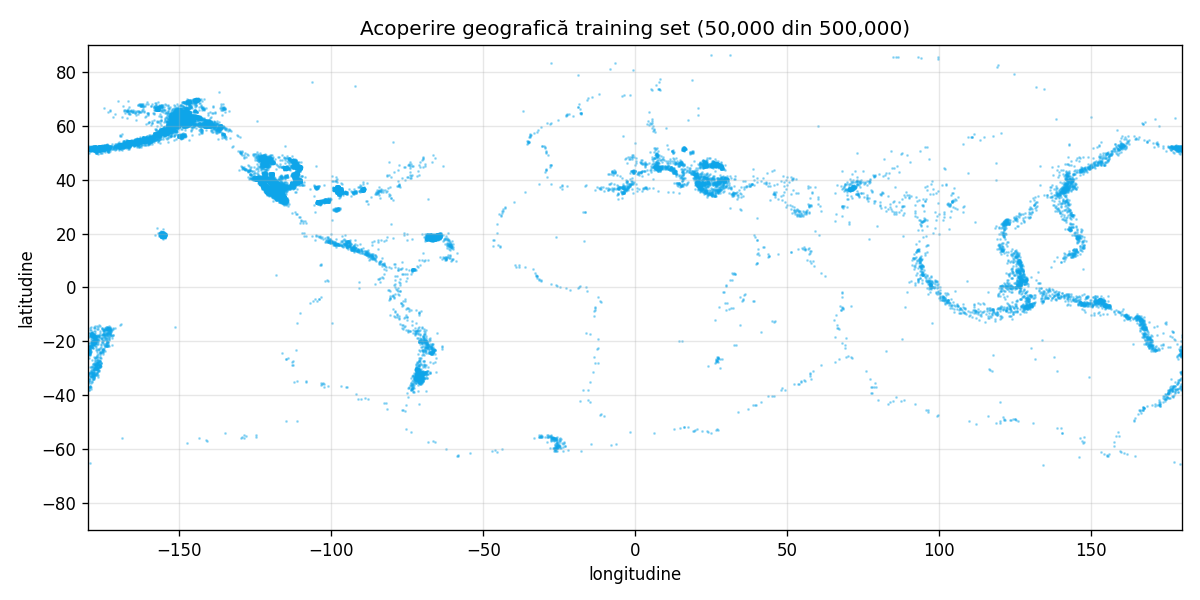
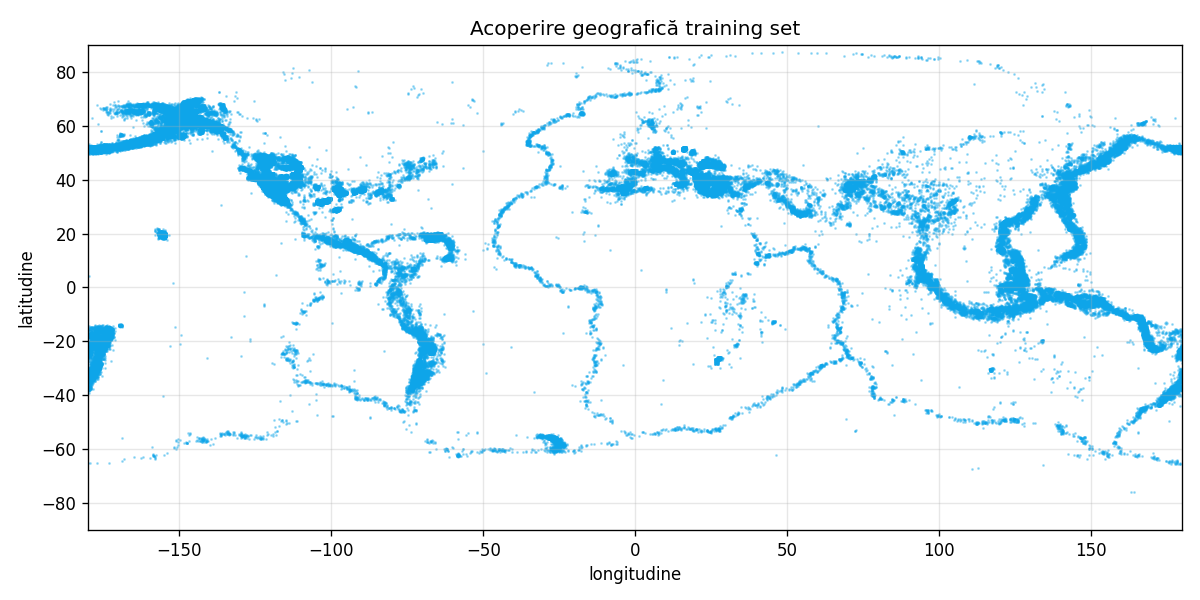
Minor changes & bug fixes

diff --git a/frontend/script.js b/frontend/script.js
@@ -145,7 +145,7 @@ async function forecast(lat, lon) {
     try {
         const [forecastRes, vulnRes] = await Promise.all([
             fetch(`/forecast?lat=${lat}&lon=${lon}&days=${days}&radius_km=${radius}`),
-            fetch(`/vulnerability?lat=${lat}&lon=${lon}&zoom=13`).catch(() => null),
+            fetch(`/vulnerability?lat=${lat}&lon=${lon}&zoom=16&radius_km=${radius}`).catch(() => null),
         ]);
         const forecastData = await forecastRes.json();
         const vulnData = vulnRes && vulnRes.ok ? await vulnRes.json() : null;
@@ -199,15 +199,30 @@ function renderResults(data, vuln) {
 
     if (vuln) {
         const exposure = vuln.vulnerability_score;
-        const hazard = m5_prob;
+        // Hazard combinat = medie ponderată a probabilităților pe praguri de
+        // magnitudine (analog cu scorul de vulnerabilitate, care e medie ponderată
+        // peste clasele de teren). Ponderile accentuează magnitudinile distructive
+        // dar încă plauzibile (M≥5/M≥6); suma ponderilor = 1, deci hazard ∈ [0, 1].
+        const HAZARD_WEIGHTS = {
+            'M_ge_3': 0.05,
+            'M_ge_4': 0.10,
+            'M_ge_5': 0.20,
+            'M_ge_6': 0.30,
+            'M_ge_7': 0.35,
+        };
+        let hazard = 0;
+        for (const [key, w] of Object.entries(HAZARD_WEIGHTS)) {
+            hazard += (probs[key] || 0) * w;
+        }
         const riskScore = (hazard * exposure).toFixed(1);
-        const riskLevel = riskScore < 2 ? 'SCĂZUT' : riskScore < 5 ? 'MODERAT' : 'RIDICAT';
+        const rs = parseFloat(riskScore);
+        const riskLevel = rs < 2 ? 'SCĂZUT' : rs < 6 ? 'MODERAT' : 'RIDICAT';
 
         html += `<div class="result-section">
             <h2>Expunere</h2>
             <div style="text-align: center;">
                 <div class="exposure-value">${exposure.toFixed(1)} / 100</div>
-                <div style="color: #94a3b8; font-size: 11px; margin-top: 4px;">vulnerabilitate de folosire a terenului</div>
+                <div style="color: #94a3b8; font-size: 11px; margin-top: 4px;">vulnerabilitate de folosire a terenului${vuln.n_samples ? ` (media a ${vuln.n_samples} zone)` : ''}</div>
             </div>
         </div>`;
 

diff --git a/backend/main.py b/backend/main.py
@@ -1,5 +1,6 @@
 import io
 import math
+from concurrent.futures import ThreadPoolExecutor
 from pathlib import Path
 
 import numpy as np
@@ -186,37 +187,117 @@ async def classify_image(file: UploadFile = File(...)):
         raise HTTPException(status_code=400, detail=f"Image processing failed: {e}")
 
 
+# Sampling pattern: center point + two concentric rings (1 + 6 + 8 = 15 tiles).
+# Each sample carries a weight so the clicked point and nearby area count more
+# than the far edge of the circle — otherwise a city gets diluted by its rural
+# surroundings and the exposure reads too low.
+CENTER_WEIGHT = 4.0
+VULN_RINGS = ((0.5, 6, 2.0), (0.95, 8, 1.0))  # (radius fraction, #points, weight each)
+
+
+def _tile_xy(lat: float, lon: float, zoom: int):
+    """Web-Mercator tile indices for a lat/lon at a given zoom."""
+    lat = max(-85.0, min(85.0, lat))
+    n = 2 ** zoom
+    x = int((lon + 180.0) / 360.0 * n)
+    lat_r = math.radians(lat)
+    y = int((1 - math.log(math.tan(lat_r) + 1 / math.cos(lat_r)) / math.pi) / 2 * n)
+    return max(0, min(n - 1, x)), max(0, min(n - 1, y))
+
+
+def _weighted_samples(lat: float, lon: float, radius_km: float):
+    """Center + ring points as (lat, lon, weight) covering the selected circle."""
+    samples = [(lat, lon, CENTER_WEIGHT)]
+    cos_lat = max(0.01, math.cos(math.radians(lat)))
+    for frac, count, weight in VULN_RINGS:
+        r_km = radius_km * frac
+        dlat = r_km / 111.0
+        for i in range(count):
+            ang = 2 * math.pi * i / count
+            plat = max(-85.0, min(85.0, lat + dlat * math.sin(ang)))
+            plon = ((lon + (r_km / (111.0 * cos_lat)) * math.cos(ang) + 180.0) % 360.0) - 180.0
+            samples.append((plat, plon, weight))
+    return samples
+
+
+def _fetch_tile(zoom: int, x: int, y: int):
+    url = (
+        f"https://server.arcgisonline.com/ArcGIS/rest/services/"
+        f"World_Imagery/MapServer/tile/{zoom}/{y}/{x}"
+    )
+    r = requests.get(url, timeout=15)
+    r.raise_for_status()
+    return Image.open(io.BytesIO(r.content)), url
+
+
 @app.get("/vulnerability")
 def vulnerability(
     lat: float = Query(..., ge=-90, le=90),
     lon: float = Query(..., ge=-180, le=180),
-    zoom: int = Query(13, ge=8, le=17),
+    # zoom 16 ⇒ tile footprint ~611 m, matching EuroSAT's ~640 m training scale.
+    zoom: int = Query(16, ge=8, le=18),
+    radius_km: float = Query(100, ge=10, le=500),
 ):
     clf = get_land_use_classifier()
     if clf is None:
         raise HTTPException(status_code=503, detail="CNN not loaded")
 
-    n = 2 ** zoom
-    x_tile = int((lon + 180) / 360 * n)
-    y_tile = int(
-        (1 - math.log(
-            math.tan(math.radians(lat)) + 1 / math.cos(math.radians(lat))
-        ) / math.pi) / 2 * n
-    )
+    # Map weighted sample points to tiles, accumulating weight per unique tile
+    # (tiles that coincide at small radii sum their weights).
+    tile_weights = {}
+    for plat, plon, w in _weighted_samples(lat, lon, radius_km):
+        key = _tile_xy(plat, plon, zoom)
+        tile_weights[key] = tile_weights.get(key, 0.0) + w
 
-    tile_url = (
-        f"https://server.arcgisonline.com/ArcGIS/rest/services/"
-        f"World_Imagery/MapServer/tile/{zoom}/{y_tile}/{x_tile}"
-    )
-    try:
-        r = requests.get(tile_url, timeout=15)
-        r.raise_for_status()
-        image = Image.open(io.BytesIO(r.content))
-        result = clf.classify_image(image)
-        result["tile_url"] = tile_url
-        return result
-    except Exception as e:
-        raise HTTPException(status_code=502, detail=f"Tile fetch/classify failed: {e}")
+    def fetch(key):
+        x, y = key
+        try:
+            return key, _fetch_tile(zoom, x, y)
+        except Exception:
+            return key, None
+
+    with ThreadPoolExecutor(max_workers=8) as ex:
+        fetched = dict(ex.map(fetch, list(tile_weights.keys())))
+
+    # Classify each fetched tile (sequentially — inference is fast, avoids
+    # sharing one inference session across threads) and combine by weighted average.
+    scores, num, wsum, class_acc = [], 0.0, 0.0, None
+    for key, payload in fetched.items():
+        if payload is None:
+            continue
+        image, _url = payload
+        try:
+            r = clf.classify_image(image)
+        except Exception:
+            continue
+        w = tile_weights[key]
+        s = r["vulnerability_score"]
+        scores.append(s)
+        num += s * w
+        wsum += w
+        if class_acc is None:
+            class_acc = {c: 0.0 for c in r["all_classes"]}
+        for c, p in r["all_classes"].items():
+            class_acc[c] += p * w
+
+    if not scores:
+        raise HTTPException(status_code=502, detail="No tiles could be fetched/classified")
+
+    avg_score = num / wsum
+    avg_classes = {c: round(v / wsum, 3) for c, v in class_acc.items()}
+    dominant = max(avg_classes, key=avg_classes.get)
+
+    return {
+        "vulnerability_score": round(avg_score, 1),
+        "predicted_class": dominant,
+        "confidence": avg_classes[dominant],
+        "all_classes": avg_classes,
+        "n_samples": len(scores),
+        "n_tiles": len(tile_weights),
+        "radius_km": radius_km,
+        "score_min": round(min(scores), 1),
+        "score_max": round(max(scores), 1),
+    }
 
 
 if FRONTEND_DIR.exists():

diff --git a/backend/features.py b/backend/features.py
@@ -286,12 +286,12 @@ from torchvision.models import mobilenet_v3_small, MobileNet_V3_Small_Weights
 from PIL import Image
 
 VULNERABILITY_SCORES = {
-    "Residential": 95,
-    "Industrial": 85,
-    "Highway": 60,
-    "AnnualCrop": 25,
-    "PermanentCrop": 25,
-    "Pasture": 15,
+    "Residential": 100,
+    "Industrial": 100,
+    "Highway": 80,
+    "AnnualCrop": 20,
+    "PermanentCrop": 20,
+    "Pasture": 10,
     "HerbaceousVegetation": 10,
     "Forest": 10,
     "River": 5,
